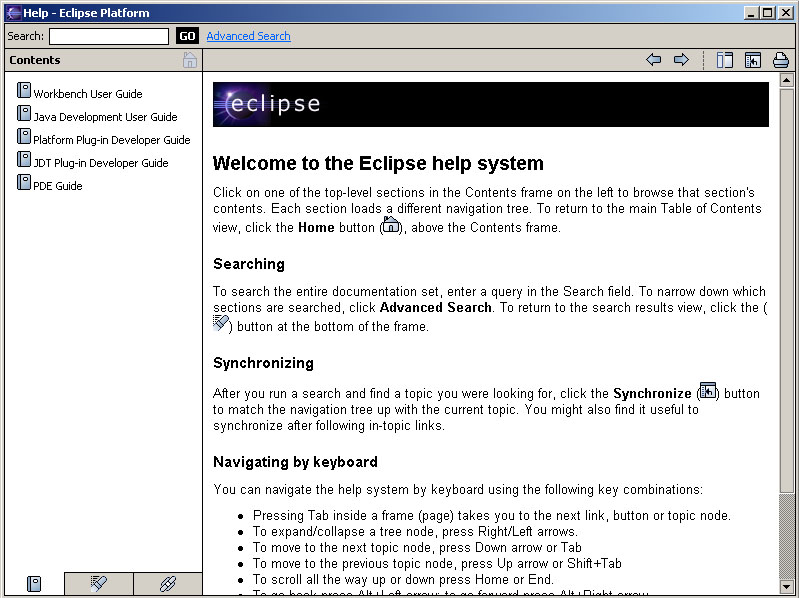
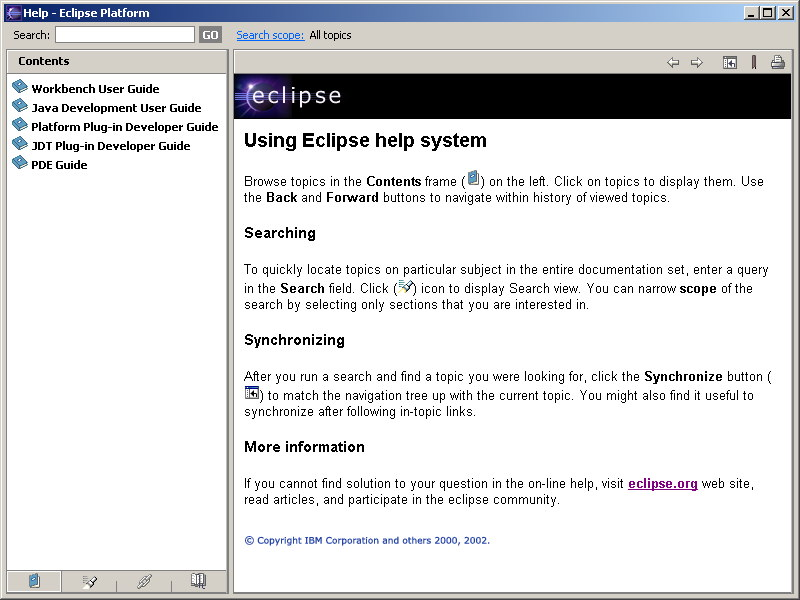
document help 2.1

Changed region(s): [[0.0, 0.0, 1.0, 1.0]]

diff --git a/bundles/org.eclipse.platform.doc.user/reference/ref-34.htm b/bundles/org.eclipse.platform.doc.user/reference/ref-34.htm
@@ -14,17 +14,15 @@ Help View</H1>
 This view displays help on using the Workbench.&nbsp;If you are reading this
 document, you've probably found this view already.</P>
 <P CLASS="Para">
-Here is what the Help view looks like:</P>
+Here is what the Help view looks like, when using embedded browser:</P>
 <P CLASS="Para">
-<img align="texttop" border="0" src="../images/Image239_help_view.jpg" alt="Help Window" width="799" height="598"></P>
+<img align="texttop" border="0" src="../images/Image239_help_view.jpg" alt="Help Window" width="800" height="600"></P>
 <P CLASS="Para">
 &nbsp;</P>
 <h2>
 Table of Contents (Bookshelf)</h2>
 <p>This list contains all the available sets of information (or books). Click a book 
-to see its topics tree. Click the Table of Contents button
-<img border="0" src="../images/bookshelf.gif" alt="Table of Contents" width="14" height="16"> 
-to return to this view.</p>
+to see its topics tree.</p>
 <h2>
 Contents Tab&nbsp;</h2>
 <P CLASS="Para">
@@ -40,10 +38,16 @@ this tab.</p>
 <p>If you invoke the context
 sensitive (F1) help, all the related links for that context are displayed in a
 list on this tab.</p>
+<h2>Bookmarks Tab</h2>
+<p>This list displays topics that were bookmarked using Bookmark Document button.</p>
 <h2>Search</h2>
 <p>Type a search query in the field and click Go. Click Advanced Search to enter 
 a longer query or to filter the results by available books.</p>
 </DIV>
+<h2>
+Search scope</h2>
+<P>
+Click the link to change the set of documentation to be searched.</P>
 <h2>
 Go
 Back</h2>
@@ -56,15 +60,13 @@ Forward</h2>
 <P>
 You can use this button if you have just used the Go Back button. Click it to display a&nbsp;previously displayed page.</P>
 <h2>
-
- Toggle Navigation</h2>
-<P>
-Click this button to hide the navigation frame, creating more room for the topic contents. 
-Click it again to show the navigation frame.</P>
-<h2>
 Synchronize Navigation</h2>
 <P>Click this button to match the navigation tree up to the topic currently 
 shown in the content frame.</P>
+<h2>
+Bookmark Document</h2>
+<P>
+This button adds a currently displayed document to the Bookmarks view.
 <h2>
 Print Page</h2>
 <P>
